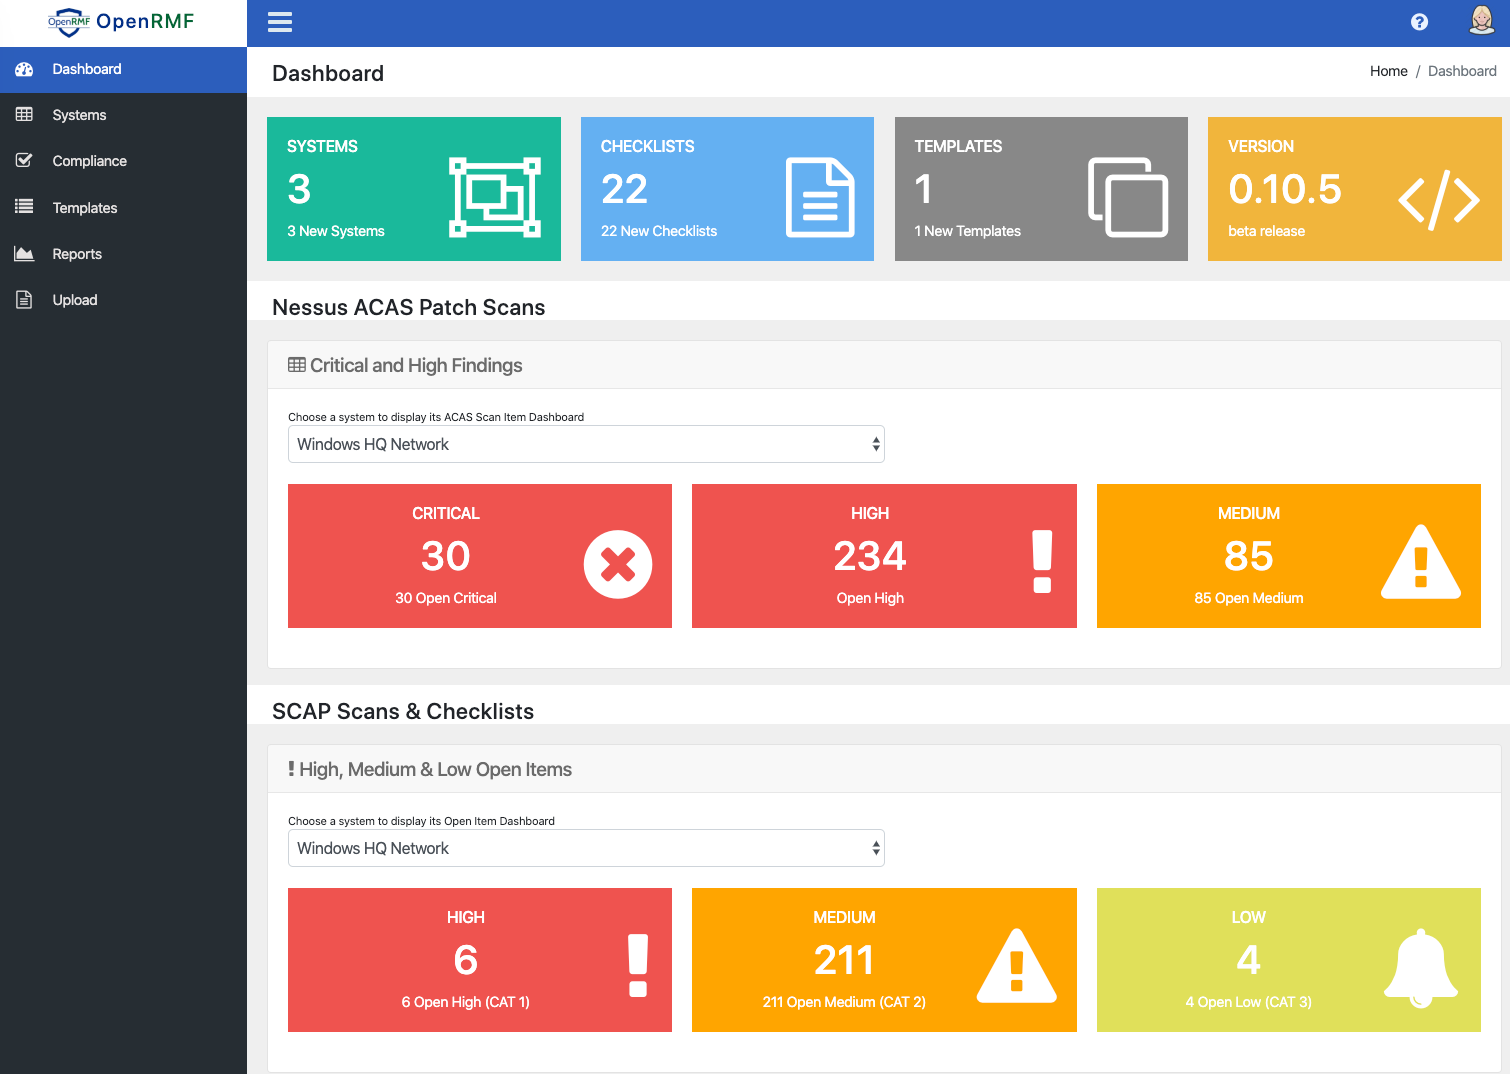
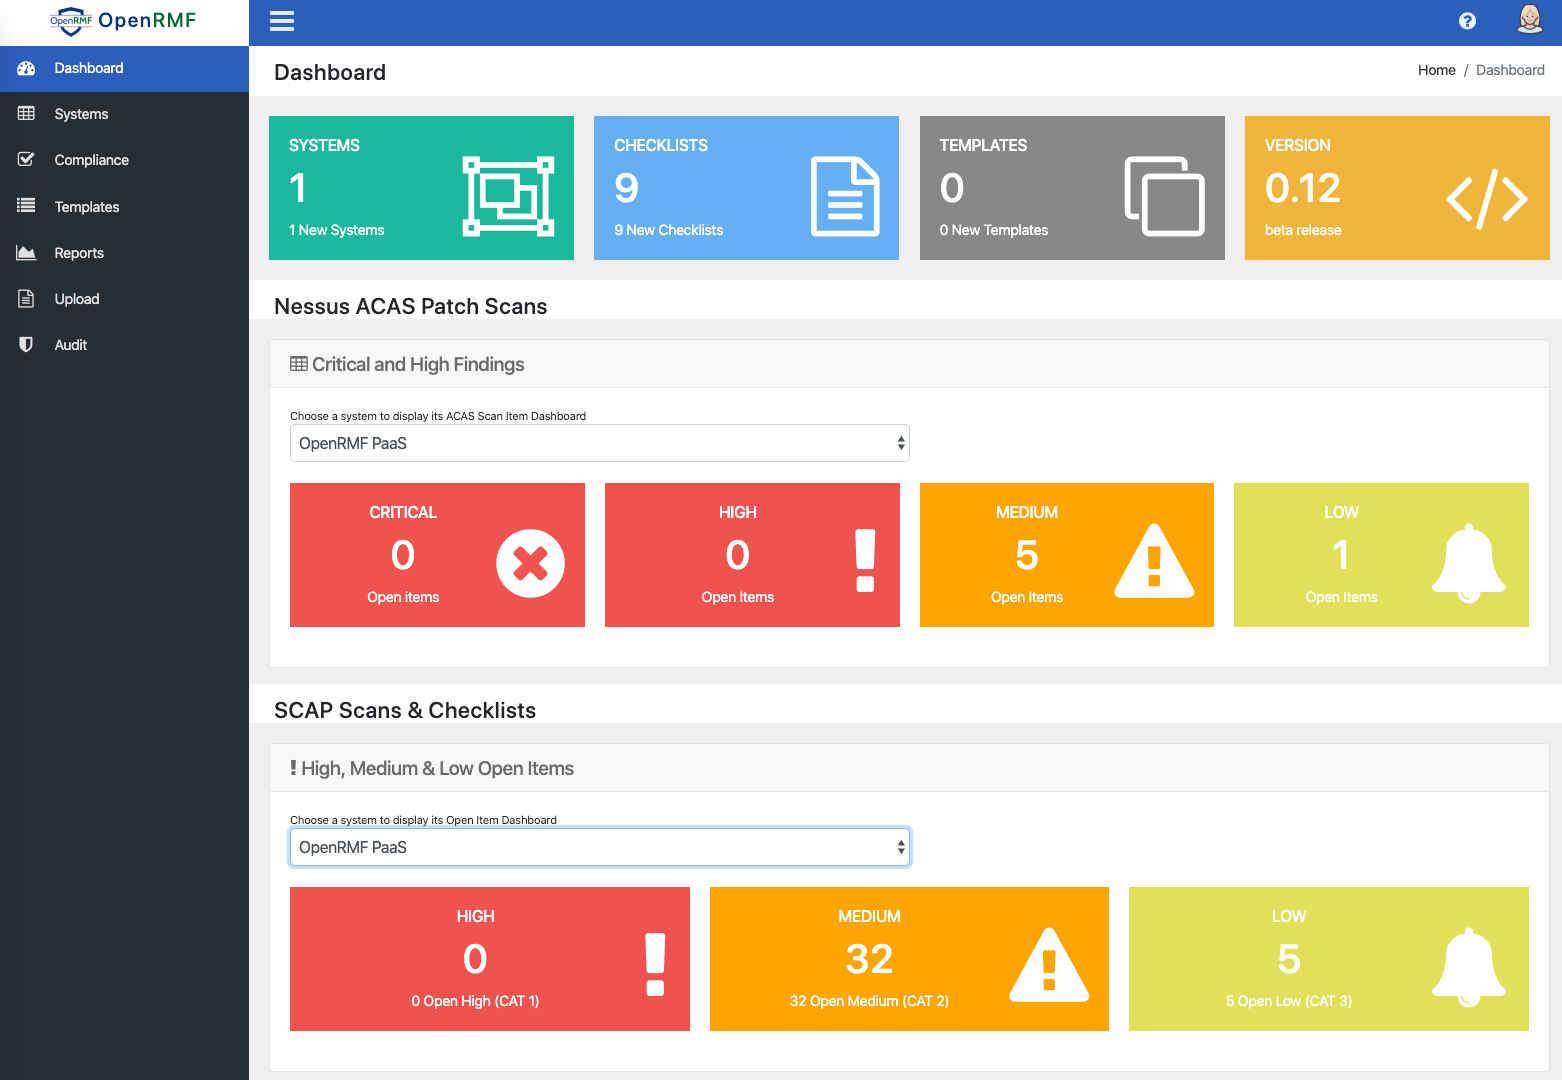
updating the main README

diff --git a/README.md b/README.md
@@ -1,4 +1,4 @@
-# OpenRMF Documentation (v 0.11)
+# OpenRMF Documentation (v 0.12)
 
 ## Introduction to OpenRMF
 OpenRMF is an open source tool for managing, viewing, and reporting of your DoD STIG checklists and Nessus Patch Scans in one web-based interface using your browser. It also generates a compliance listing of all your checklists across a whole system based on NIST 800-53 for your Risk Management Framework (RMF) documentation and process. This tool helps you manage multiple systems going through the RMF process and allows you to structure your data in a clean interface all in one location for your group or program. It can save you _weeks_ of manually checking vulnerability-to-CCI-to-NIST controls and manually generating reports, so you can get on to the value-added work for your cybersecurity hygiene.
@@ -24,6 +24,7 @@ Read more about its genesis <a href="https://www.cingulara.com/opensource.html" 
 - [x] Exporting checklists to MS Excel in seconds with color coded rows based on status (Open = RED, Not a Finding = GREEN, etc.)
 - [x] Exporting of various charts for download to PNG
 - [x] Filter Vulnerabilities on the Checklist page by status 
+- [x] Live Editing of Checklist data through the web browser
 - [x] Filter vulnerabilities for your Compliance listing based on major controls
 - [x] Exporting your list of checklists and their score by status and category to MS Excel 
 - [x] Metrics exported to Prometheus for API endpoints and NATS messaging, quickly display in Grafana
@@ -47,9 +48,9 @@ If we are missing something you want, please add it on our main <a href="https:/
 
 ## Description
 
-The OpenRMF tool is an advanced alternative to the [DISA STIGViewer.jar](https://iase.disa.mil/stigs/Pages/stig-viewing-guidance.aspx) and MS Excel hell we go through used for DoD STIG checklist files, RMF process information, and the like. It is necessary to capture and report on this information, please _do not_ mistake what I say for not agreeing with securing services. However, the DISA Java tool itself is horribly designed and not conducive to today's environment and use. And it is only part of the story. Their Java tool has been like this for a loooooonnnnnngggg time and I have wanted to make something better (IMO) for almost as long. So this tool here is the start! It is a way (currently) to view, report on, dive into, manage, and export your STIG checklists no matter which checklist you are referring to. All the .CKL files have a common format and htis reads and displays/manages that in a web front end using .NET Core APIs, MongoDB and NATS messaging. [View the history](https://www.cingulara.com/opensource.html) of this tool on our website. 
+The OpenRMF tool is an advanced alternative to the [DISA STIGViewer.jar](https://iase.disa.mil/stigs/Pages/stig-viewing-guidance.aspx) and MS Excel hell we go through used for DoD STIG checklist files, SCAP Scans, Nessus ACAS scans, RMF process information, and the like. It is necessary to capture and report on this information, please _do not_ mistake what I say for not agreeing with securing services. However, the DISA Java tool itself is horribly designed and not conducive to today's environment and use. And it is only part of the story. Their Java tool has been like this for a loooooonnnnnngggg time and I have wanted to make something better (IMO) for almost as long. So this tool here is the start! It is a way (currently) to view, report on, dive into, manage, and export your STIG checklists no matter which checklist you are referring to. All the .CKL files have a common format and htis reads and displays/manages that in a web front end using .NET Core APIs, MongoDB and NATS messaging. [View the history](https://www.cingulara.com/opensource.html) of this tool on our website. 
 
-OpenRMF also is a single pane of glass for your DISA SCAP scans (to generate checklists), Nessus SCAP scans (Beta), Nessus patch scans (to track patch management), and compliance reporting for your systems going through the RMF process. We know: the RMF process is manual and all inclusive! This tool helps to automate as much as possible on the managing and reporting of data so you can:
+OpenRMF also is a single pane of glass for your DISA SCAP scans (to generate checklists), Nessus SCAP scans, Nessus patch scans (to track patch management), and compliance reporting for your systems going through the RMF process. We know: the RMF process is manual and all inclusive! This tool helps to automate as much as possible on the managing and reporting of data so you can:
 1. Know your current Risk Profile
 2. Know your current status
 3. Know what is left to do
@@ -90,11 +91,6 @@ Starting with version 0.10.7 we include metrics tracking for all our major subsy
 ## Authentication with Keycloak
 
 Starting with version 0.8 we have AuthN and AuthZ setup for use. See the [Keycloak Document](keycloak.md) document for more information.
-
-## Known issues
-If you find something please add an issue to the correct repo. 
-
-- The DISA SCAP tool and the Nessus SCAP scans put out different formats when exporting the report data. We currently can import DISA SCAP XCCDF files. We are currently working on the Nessus SCAP scan import to create / update checklists from it as well. 
 
 ## Creating MongoDB Users by Hand
 If you wish you can create a MongoDB setup locally to persist your data and see what it does. Checkout the [create users by hand](create-users-by-hand.md) readme for more on that. 
